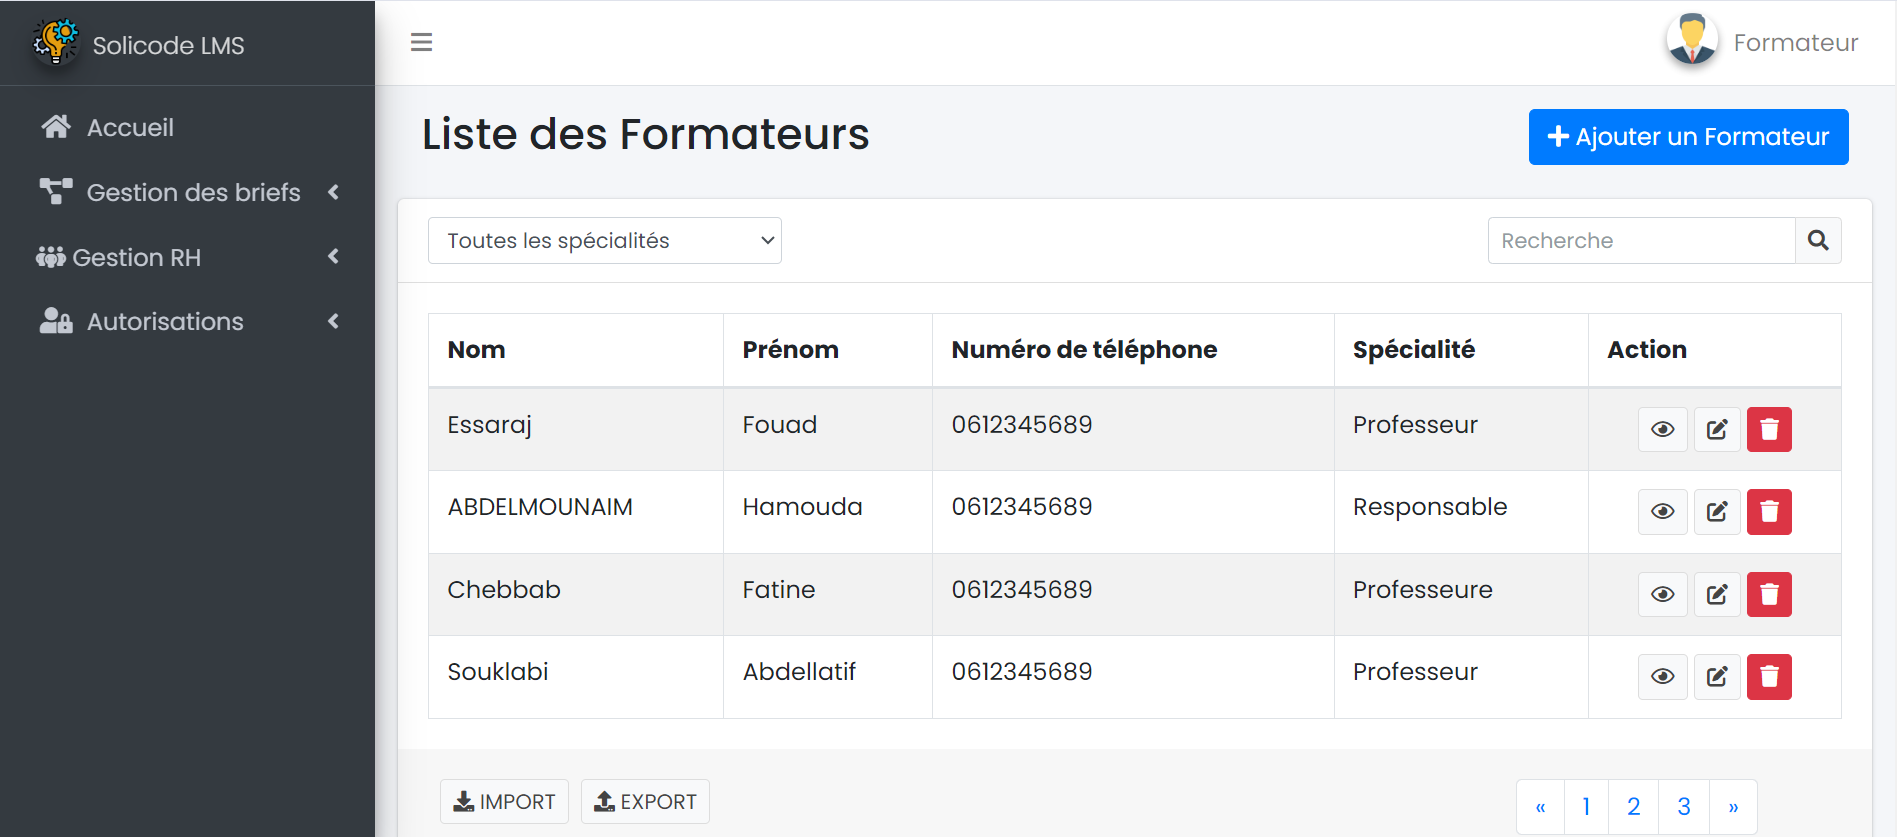
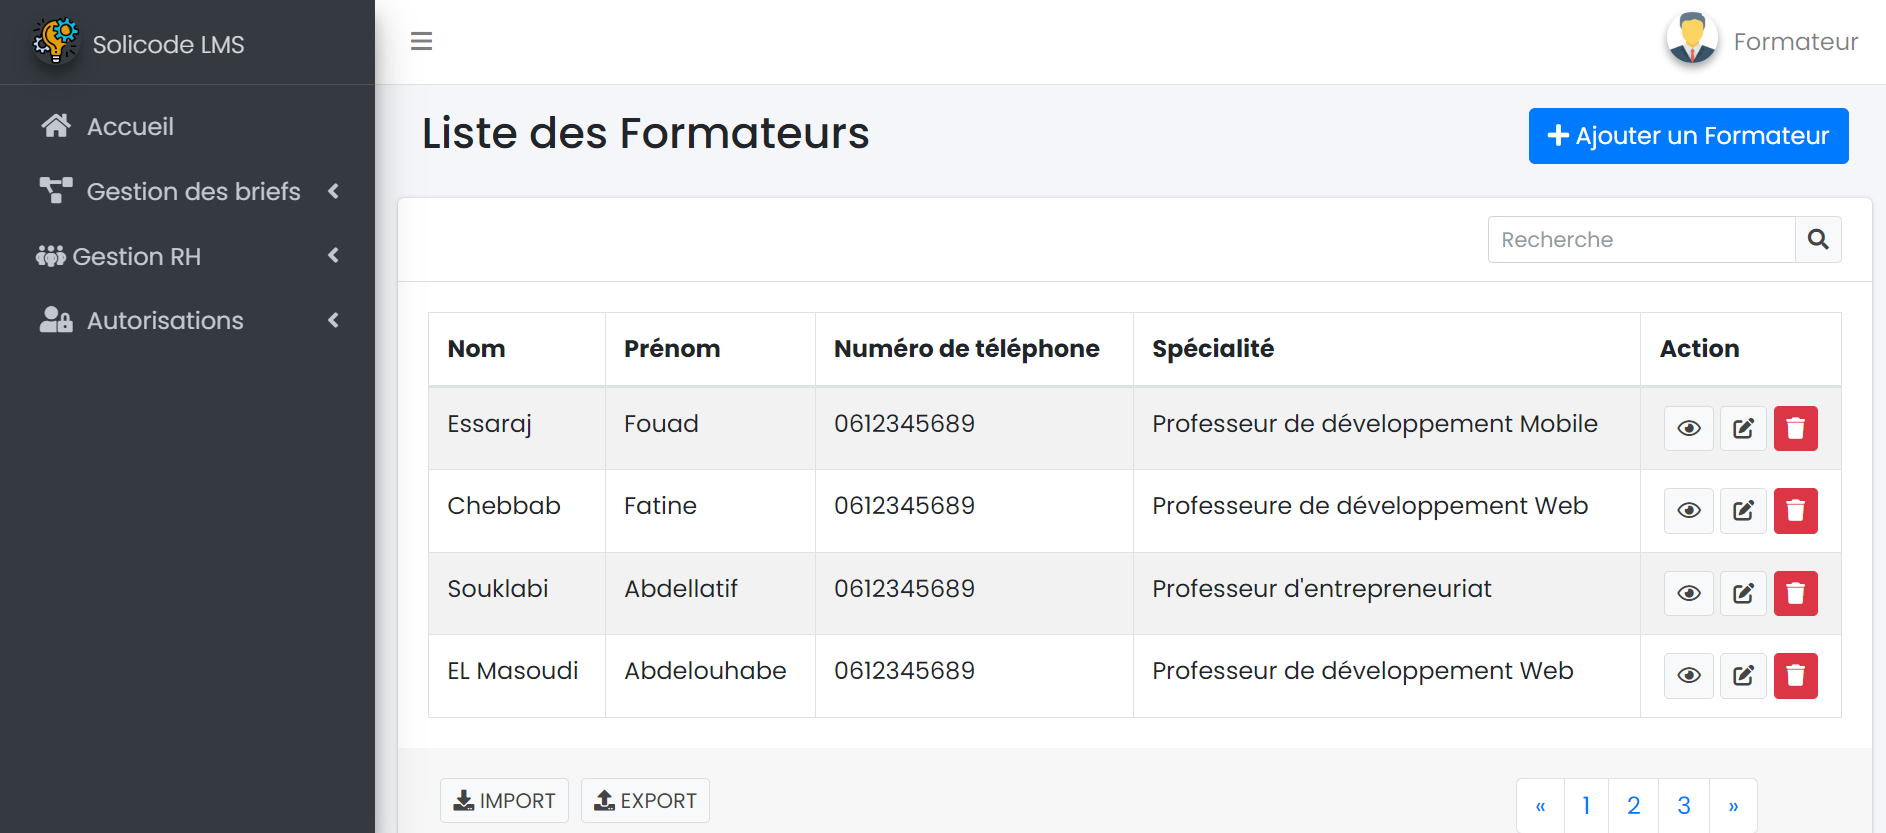
update

diff --git a/maquettes/view/pkg_rh/Formateur/index.php b/maquettes/view/pkg_rh/Formateur/index.php
@@ -40,14 +40,14 @@
                                 </button>
                             </div>
                         </div>
-                        <div class="input-group input-group-sm float-sm-left col-md-3 p-0">
+                        <!-- <div class="input-group input-group-sm float-sm-left col-md-3 p-0">
                             <select class="form-control " id="filterSelect">
                                 <option value="">Toutes les spécialités</option>
                                 <option value="option1">Professeur</option>
                                 <option value="option2">Responsable</option>
                                 <option value="option3">Secrétaire Générale</option>
                             </select>
-                        </div>
+                        </div> -->
                     </div>
                     <div class="card-body">
                         <table id="example1" class="table table-bordered table-striped">
@@ -65,20 +65,7 @@
                                     <td>Essaraj</td>
                                     <td>Fouad</td>
                                     <td>0612345689</td>
-                                    <td>Professeur</td>
-                                    <td class="text-center">
-                                        <a href="./show.php" class='btn btn-default btn-sm'>
-                                            <i class="far fa-eye"></i>
-                                        </a>
-                                        <a href="./edit.php" class="btn btn-sm btn-default"><i class="fa-solid fa-pen-to-square"></i></a>
-                                        <button type="button" class="btn btn-sm btn-danger"><i class="fa-solid fa-trash"></i></button>
-                                    </td>
-                                </tr>
-                                <tr>
-                                    <td>ABDELMOUNAIM</td>
-                                    <td>Hamouda</td>
-                                    <td>0612345689</td>
-                                    <td>Responsable</td>
+                                    <td>Professeur de développement Mobile</td>
                                     <td class="text-center">
                                         <a href="./show.php" class='btn btn-default btn-sm'>
                                             <i class="far fa-eye"></i>
@@ -91,7 +78,7 @@
                                     <td>Chebbab</td>
                                     <td>Fatine</td>
                                     <td>0612345689</td>
-                                    <td>Professeure</td>
+                                    <td>Professeure de développement Web</td>
                                     <td class="text-center">
                                         <a href="./show.php" class='btn btn-default btn-sm'>
                                             <i class="far fa-eye"></i>
@@ -104,7 +91,7 @@
                                     <td>Souklabi</td>
                                     <td>Abdellatif</td>
                                     <td>0612345689</td>
-                                    <td>Professeur</td>
+                                    <td>Professeur d'entrepreneuriat</td>
                                     <td class="text-center">
                                         <a href="./show.php" class='btn btn-default btn-sm'>
                                             <i class="far fa-eye"></i>
@@ -113,7 +100,19 @@
                                         <button type="button" class="btn btn-sm btn-danger"><i class="fa-solid fa-trash"></i></button>
                                     </td>
                                 </tr>
-
+                                <tr>
+                                    <td>EL Masoudi</td>
+                                    <td>Abdelouhabe</td>
+                                    <td>0612345689</td>
+                                    <td>Professeur de développement Web</td>
+                                    <td class="text-center">
+                                        <a href="./show.php" class='btn btn-default btn-sm'>
+                                            <i class="far fa-eye"></i>
+                                        </a>
+                                        <a href="./edit.php" class="btn btn-sm btn-default"><i class="fa-solid fa-pen-to-square"></i></a>
+                                        <button type="button" class="btn btn-sm btn-danger"><i class="fa-solid fa-trash"></i></button>
+                                    </td>
+                                </tr>
                             </tbody>
                         </table>
                     </div>

diff --git a/docs/pkg_rh/conception.md b/docs/pkg_rh/conception.md
@@ -12,4 +12,34 @@ order: 590
 ![Conception - pkg_rh ](/soli-lms/diagrammes/pkg_rh/classes_pkg_rh.svg){:width="100%"}
 *Conception - pkg_rh*
 
-## Maquetes
+## Maquettes
+
+### Gestion Formateurs
+
+![Gestion Formateurs](./images/formateure-maqquette.PNG){:width="100%"}
+*Gestion Formateurs*
+
+### Gestion Apprenant
+
+![Gestion Apprenant](./images/apprenant-maquette.PNG){:width="100%"}
+*Gestion Apprenant*
+
+### Gestion Villes
+
+![Gestion Villes](./images/ville-maqquette.PNG){:width="100%"}
+*Gestion Villes*
+
+### Gestion Groupes
+
+![Gestion Groupes](./images/groupes-villes.PNG){:width="100%"}
+*Gestion Groupes*
+
+### Gestion Spécialités
+
+![Gestion Spécialités](./images/specialite-maquette.PNG){:width="100%"}
+*Gestion Spécialités*
+
+### Gestion Niveau Scolaire
+
+![Gestion Niveau Scolaire](./images/niveau-scholaire-maquette.PNG){:width="100%"}
+*Gestion Niveau Scolaire*

diff --git a/docs/pkg_rh/branch_techniques.md b/docs/pkg_rh/branch_techniques.md
@@ -26,4 +26,4 @@ AdminLTE : un thème d’administration basé sur Bootstrap. Rôle : offrir une 
 
 L'architecture MVC (Modèle-Vue-Contrôleur) est une approche de conception qui divise une application en trois composants distincts, ce qui facilite la maintenance et l'évolution du code. Le Modèle s'occupe de la gestion des données, la Vue présente ces données à l'utilisateur, et le Contrôleur gère les interactions entre l'utilisateur et l'application. Utilisée couramment dans le développement de sites web, d'applications mobiles et autres logiciels, cette architecture améliore l'organisation du code, permet une meilleure réutilisabilité et simplifie la maintenance.
 
-## Protoype
+## Prototype

diff --git a/docs/pkg_rh/Branch_Fonctionnel.md b/docs/pkg_rh/Branch_Fonctionnel.md
@@ -20,4 +20,3 @@ order: 390
 Le Responsable de Formation rencontre des difficultés majeures avec l'utilisation d'Excel pour la gestion des données éducatives. La gestion des étudiants et des formateurs est fastidieuse et sujette aux erreurs, et la validation des compétences des étudiants manque de transparence et d'efficacité.
 
 De plus, l'ajout et l'organisation des groupes et des spécialités sont complexes et chronophages, rendant difficile le maintien d'un système à jour.
-
